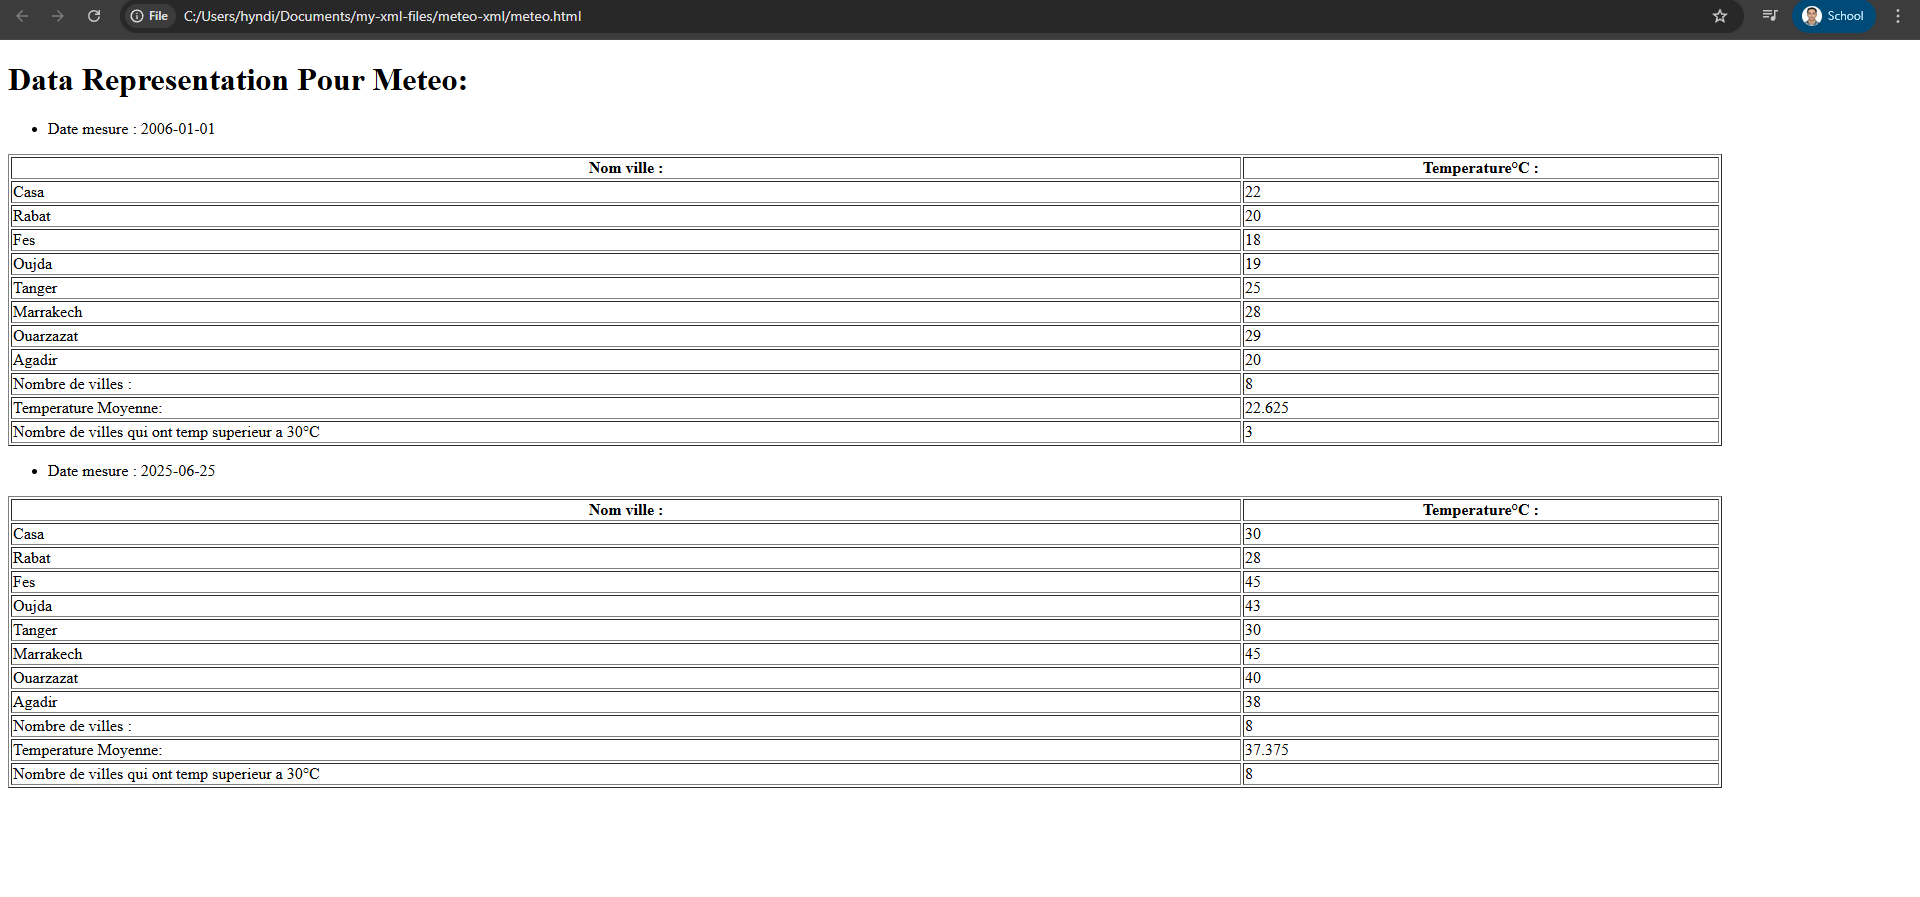
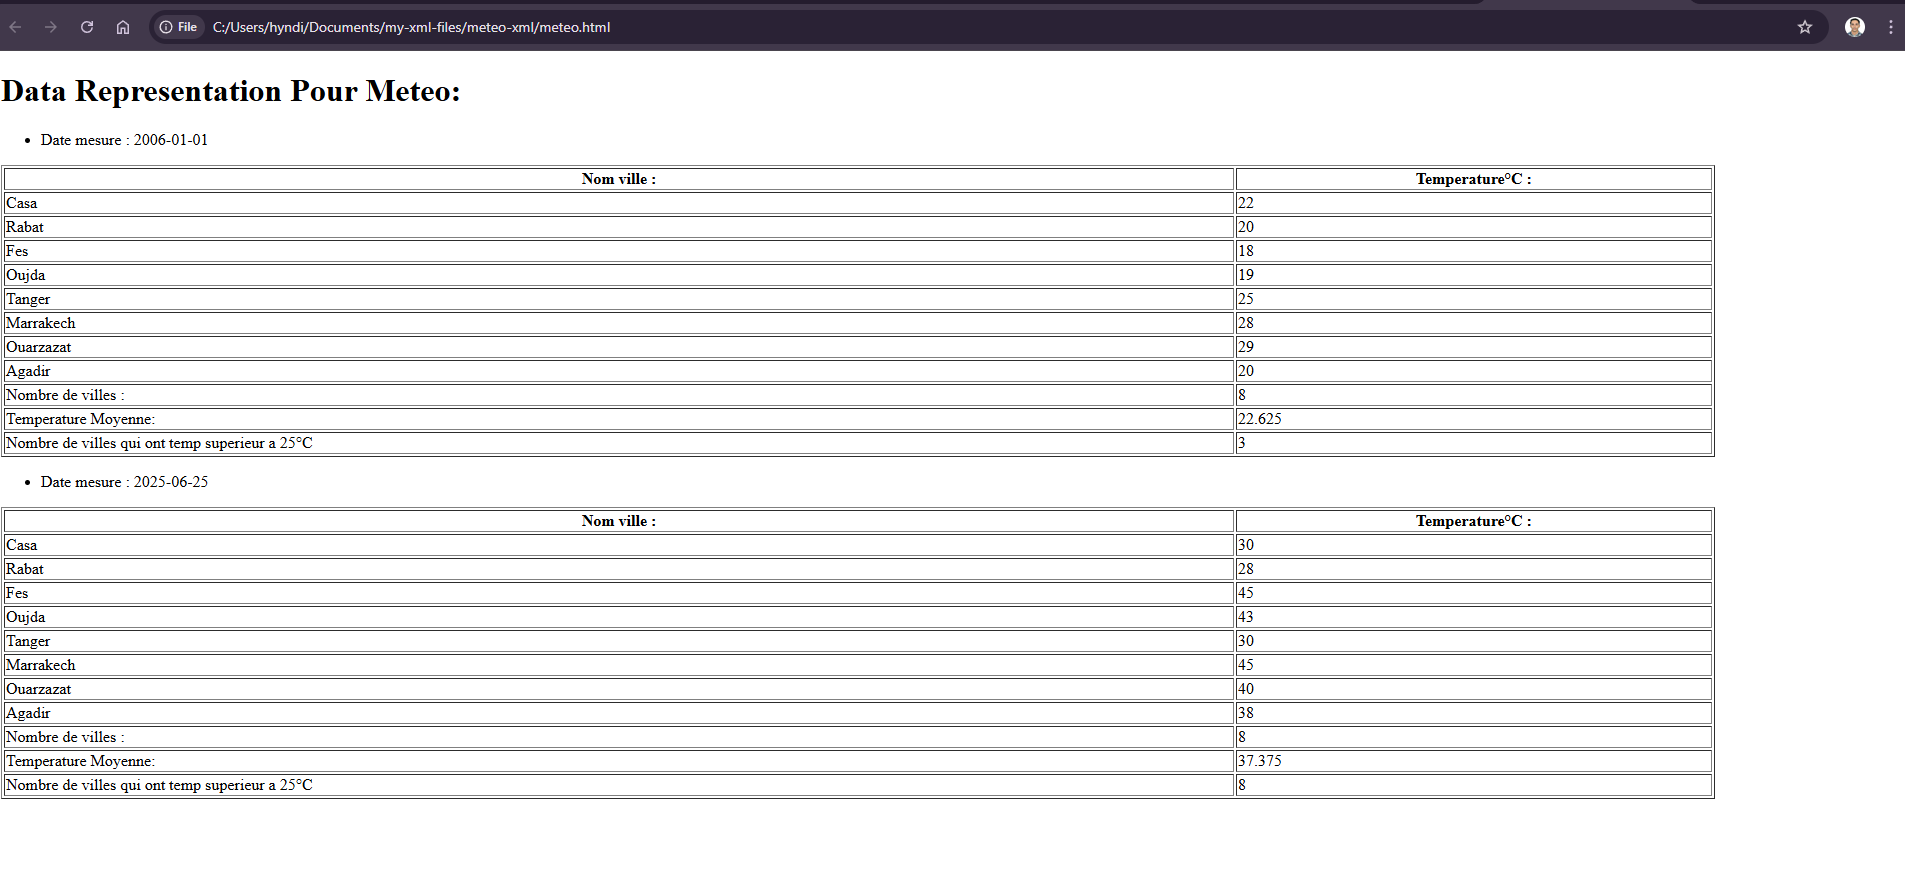
fixing the condition in last line of the table

Changed region(s): [[0.0, 0.0, 1.0, 0.9132]]

diff --git a/meteo.html b/meteo.html
@@ -55,7 +55,7 @@
             <td>22.625</td>
          </tr>
          <tr>
-            <td>Nombre de villes qui ont temp superieur a 30°C</td>
+            <td>Nombre de villes qui ont temp superieur a 25°C</td>
             <td>3</td>
          </tr>
       </table>
@@ -108,7 +108,7 @@
             <td>37.375</td>
          </tr>
          <tr>
-            <td>Nombre de villes qui ont temp superieur a 30°C</td>
+            <td>Nombre de villes qui ont temp superieur a 25°C</td>
             <td>8</td>
          </tr>
       </table>
